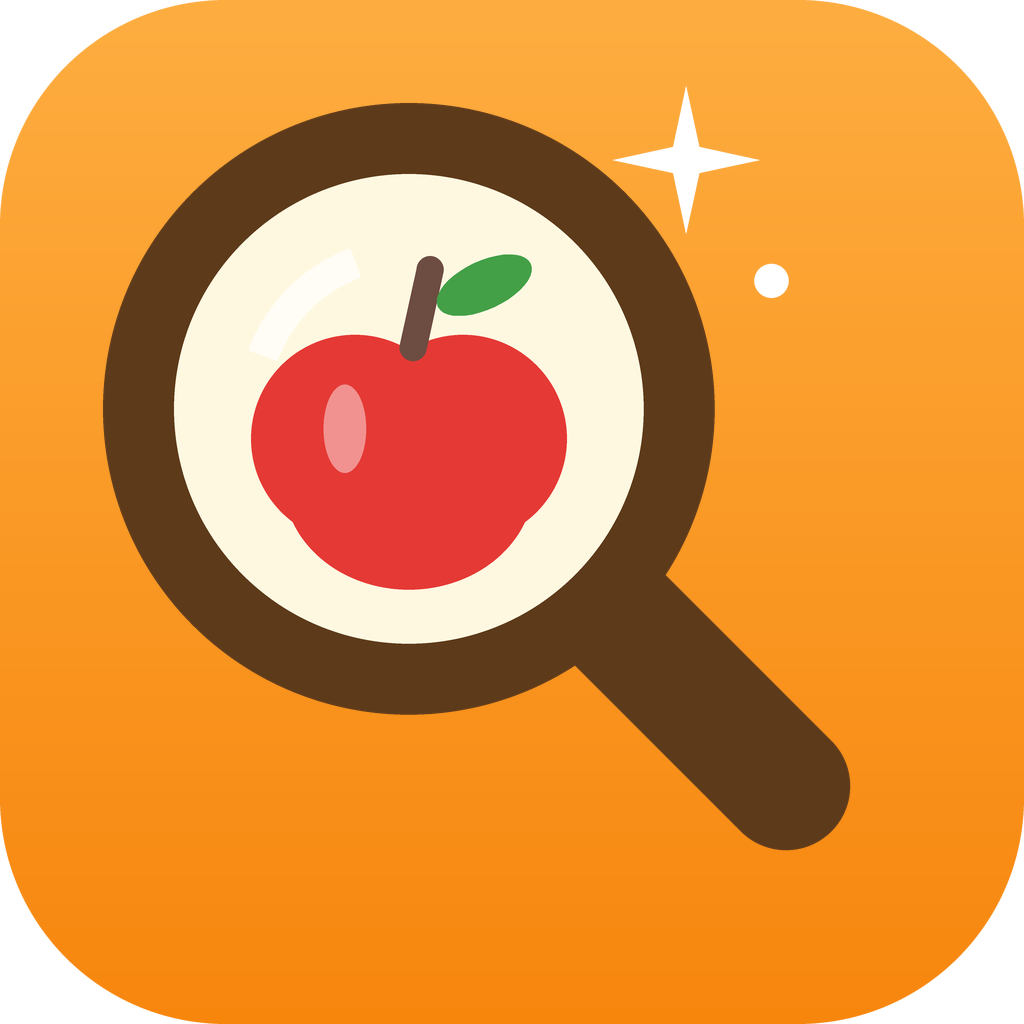
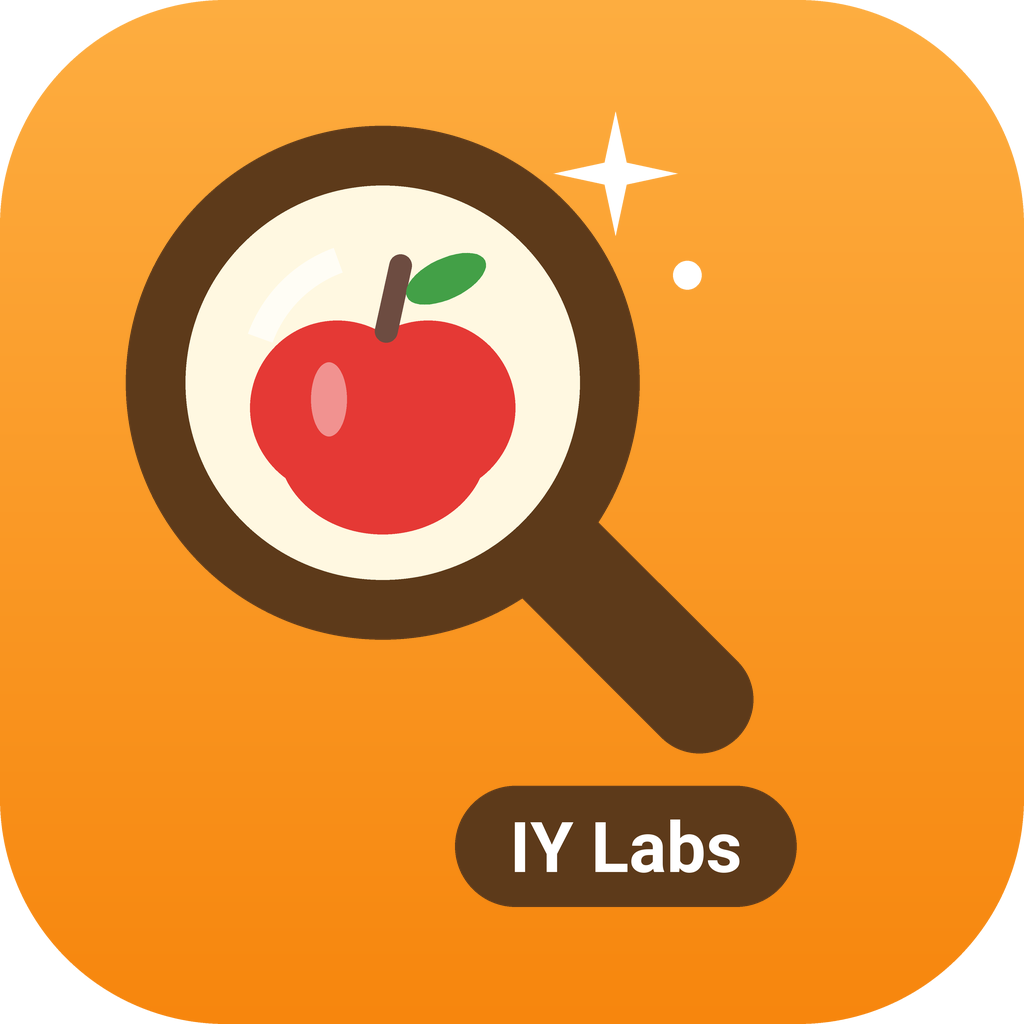
PHASE 24.1: ikona sağ altta "IY Labs" etiketi
Kullanıcı isteği: diğer IY Labs uygulamalarıyla tutarlı olarak ikonun
sağ altında "IY Labs" etiketi.

- Koyu kahve kapsül (büyüteç çerçevesiyle aynı renk), beyaz kalın yazı.
  Font: Flutter SDK içindeki Roboto Bold (uygulamanın fontu; bulunamazsa
  betik başka fonta sessizce düşmek yerine hata verir).
- Etiket tam köşeye konamadı: çoğu telefon ikonu daire/yuvarlak kare
  kırpar, köşeler kesilir. Güvenli dairenin içindeki en sağ-alt konuma
  yerleştirildi; büyüteç grubu %84'e küçültülüp sol üste kaydırıldı ki
  sap etiketin üstüne binmesin.
- Temalı ikonda (Android 13+) yazı kapsülden oyuluyor.
- Güvenli alan: 32.70 dp (sınır 33).

Doğrulama: önizleme (daire/squircle/yuvarlak kare, 48-144 px) ve emülatör
uygulama çekmecesi. Dart kodu değişmedi.

diff --git a/tool/ikon_uret.py b/tool/ikon_uret.py
@@ -2,7 +2,7 @@
 """MiniKesif uygulama ikonunu üretir.
 
 Tasarım: turuncu zemin üzerinde büyüteç; merceğin içinde kırmızı bir elma
-("bir şey keşfettik") ve köşede küçük bir parıltı. İkon koddan çizildiği için
+("bir şey keşfettik"), köşede küçük bir parıltı ve sağ altta "IY Labs" etiketi. İkon koddan çizildiği için
 renk ya da şekil değişirse tek komutla yeniden üretilebilir; dışarıdan bir
 görsel ya da paket gerekmez (sadece Pillow).
 
@@ -17,7 +17,9 @@ Katman 108 dp'dir; her kırpmada görünmesi garanti olan GÜVENLİ ALAN merkezd
 """
 import argparse
 import math
+import os
 import pathlib
+import shutil
 import sys
 
 from PIL import Image, ImageDraw, ImageFont
@@ -46,6 +48,18 @@ SAP_BOY = 16.0
 SAP_EN = 9.0
 GUVENLI_YARICAP = 33.0  # 66 dp çaplı güvenli alan
 
+# Büyüteç grubu küçültülüp sol üste kaydırılıyor: sağ altta etikete yer açılsın.
+GRUP_OLCEK = 0.84
+GRUP_KAYMA = (-3.0, -3.0)
+
+# "IY Labs" etiketi. Tam köşeye KONAMAZ: telefonların çoğu ikonu daire ya da
+# yuvarlak kare şeklinde kırpar, köşeler kesilir. Güvenli dairenin içindeki en
+# sağ-alt konum kullanılıyor.
+ETIKET_METIN = "IY Labs"
+ETIKET_MERKEZ = (62.0, 77.5)
+ETIKET_EN = 24.0
+ETIKET_BOY = 8.5
+
 
 class Tuval:
     """108 birimlik koordinatlarla çizim; içeride size*S piksel."""
@@ -54,8 +68,13 @@ class Tuval:
         self.size = size
         self.k = size * S / 108
         self.img = Image.new("RGBA", (size * S, size * S), (0, 0, 0, 0))
+        # Çizilen şekillere uygulanan ölçek ve kayma (tuval merkezine göre).
+        self.olcek = 1.0
+        self.kayma = (0.0, 0.0)
 
     def p(self, x, y):
+        x = (x - 54) * self.olcek + 54 + self.kayma[0]
+        y = (y - 54) * self.olcek + 54 + self.kayma[1]
         return (x * self.k, y * self.k)
 
     def daire(self, cx, cy, r, renk):
@@ -79,7 +98,9 @@ class Tuval:
 
     def katman(self):
         """Yarı saydam şekiller için ayrı katman (alfa ile birleştirilir)."""
-        return Tuval(self.size)
+        k = Tuval(self.size)
+        k.olcek, k.kayma = self.olcek, self.kayma
+        return k
 
     def birlestir(self, ust):
         self.img = Image.alpha_composite(self.img, ust.img)
@@ -113,6 +134,7 @@ def on_plan(size, tek_renk=False):
     bırakılır ki elma çerçeveden ayrı okunsun.
     """
     t = Tuval(size)
+    t.olcek, t.kayma = GRUP_OLCEK, GRUP_KAYMA
     koyu = BEYAZ if tek_renk else KOYU
     u = (math.cos(math.radians(45)), math.sin(math.radians(45)))
 
@@ -135,7 +157,7 @@ def on_plan(size, tek_renk=False):
         k = t.katman()
         ImageDraw.Draw(k.img).arc(
             [*k.p(L[0] - 12, L[1] - 12), *k.p(L[0] + 12, L[1] + 12)],
-            start=200, end=250, fill=(255, 255, 255, 170), width=int(2.2 * k.k))
+            start=200, end=250, fill=(255, 255, 255, 170), width=int(2.2 * k.k * k.olcek))
         t.birlestir(k)
 
     # Elma
@@ -155,7 +177,60 @@ def on_plan(size, tek_renk=False):
     # Parıltı
     t.cokgen(yildiz(L[0] + 19.5, L[1] - 17.5, 5.2, 1.3), BEYAZ)
     t.daire(L[0] + 25.5, L[1] - 9.0, 1.2, BEYAZ)
+
+    # Etiket gruptan bağımsız konumlanıyor.
+    t.olcek, t.kayma = 1.0, (0.0, 0.0)
+    etiket_ciz(t, tek_renk)
     return t.sonuc()
+
+
+_FONT_YOLU = None
+
+
+def kalin_font():
+    """Uygulamanın da kullandığı Roboto Bold (Flutter SDK içinde gelir).
+
+    Başka bir fonta sessizce düşmüyoruz: ikon her makinede aynı üretilmeli.
+    """
+    global _FONT_YOLU
+    if _FONT_YOLU is None:
+        kok = os.environ.get("FLUTTER_ROOT")
+        if not kok and shutil.which("flutter"):
+            kok = str(pathlib.Path(shutil.which("flutter")).resolve().parent.parent)
+        yol = pathlib.Path(kok or "") / "bin/cache/artifacts/material_fonts/Roboto-Bold.ttf"
+        if not kok or not yol.exists():
+            sys.exit("Roboto-Bold.ttf bulunamadı: Flutter SDK kurulu mu? (FLUTTER_ROOT)")
+        _FONT_YOLU = str(yol)
+    return _FONT_YOLU
+
+
+def etiket_ciz(t, tek_renk):
+    """Koyu kapsül içinde beyaz 'IY Labs'. Temalı ikonda yazı oyulur."""
+    cx, cy = ETIKET_MERKEZ
+    x0, y0 = t.p(cx - ETIKET_EN / 2, cy - ETIKET_BOY / 2)
+    x1, y1 = t.p(cx + ETIKET_EN / 2, cy + ETIKET_BOY / 2)
+    yaricap = (y1 - y0) / 2
+    ImageDraw.Draw(t.img).rounded_rectangle(
+        [x0, y0, x1, y1], radius=yaricap, fill=BEYAZ if tek_renk else KOYU)
+
+    # Yazıyı kapsüle sığacak en büyük boyutta seç.
+    en_fazla_en = (x1 - x0) - 1.8 * yaricap
+    en_fazla_boy = (y1 - y0) * 0.6
+    boyut = int(y1 - y0)
+    while True:
+        font = ImageFont.truetype(kalin_font(), boyut)
+        sol, ust, sag, alt = font.getbbox(ETIKET_METIN)
+        if (sag - sol <= en_fazla_en and alt - ust <= en_fazla_boy) or boyut <= 4:
+            break
+        boyut -= 1
+    tx = (x0 + x1) / 2 - (sol + sag) / 2
+    ty = (y0 + y1) / 2 - (ust + alt) / 2
+    if tek_renk:
+        m = Image.new("L", t.img.size, 0)
+        ImageDraw.Draw(m).text((tx, ty), ETIKET_METIN, font=font, fill=255)
+        t.img = Image.composite(Image.new("RGBA", t.img.size, (0, 0, 0, 0)), t.img, m)
+    else:
+        ImageDraw.Draw(t.img).text((tx, ty), ETIKET_METIN, font=font, fill=BEYAZ)
 
 
 def arka_plan(size):
